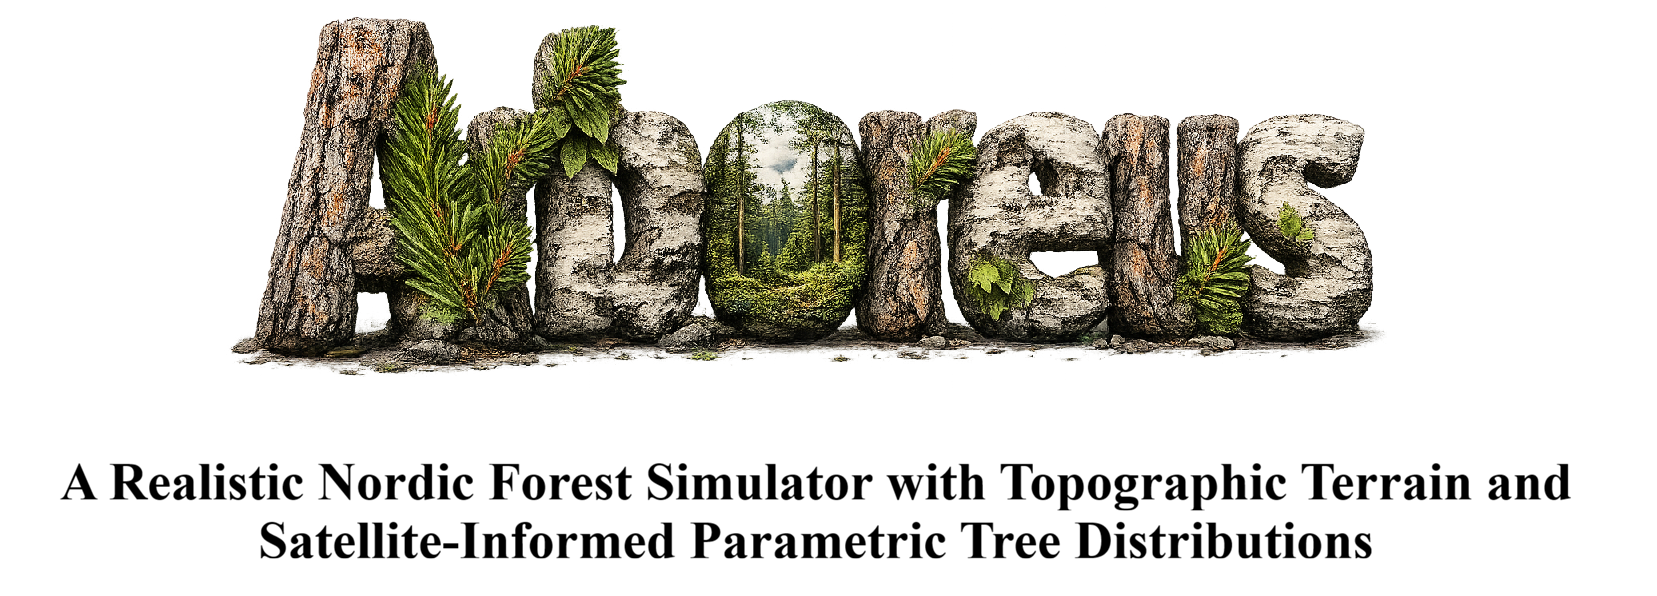
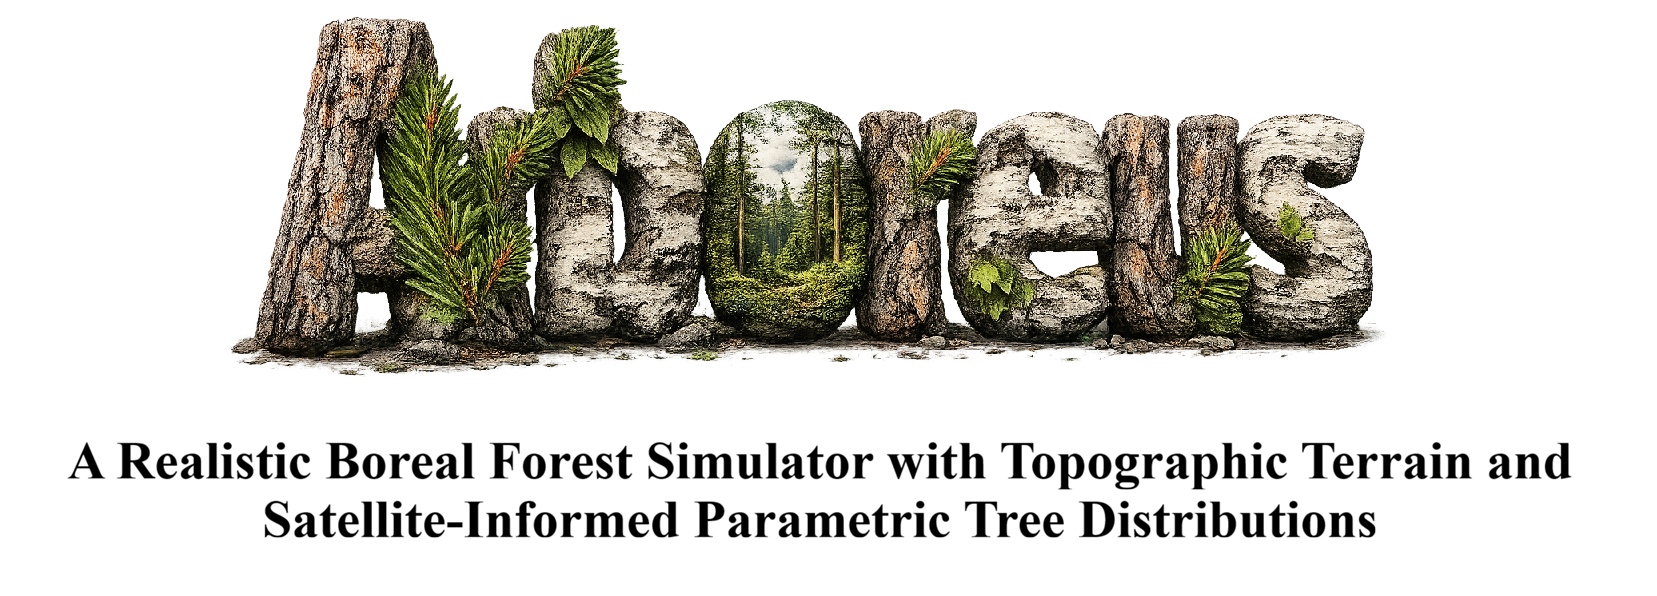
Update title

Changed region(s): [[0.0308, 0.7248, 0.9541, 0.9362]]

diff --git a/index.html b/index.html
@@ -3,7 +3,7 @@
 <head>
   <meta charset="utf-8">
   <meta name="viewport" content="width=device-width, initial-scale=1">
-  <meta name="description" content="Arboreus: a realistic Nordic forest simulator with topographic terrain and satellite-informed parametric tree distributions.">
+  <meta name="description" content="Arboreus: a realistic Boreal forest simulator with topographic terrain and satellite-informed parametric tree distributions.">
   <title>Arboreus</title>
   <style>
     :root {
@@ -105,15 +105,15 @@
     </div>
 
     <div class="teaser">
-      <img src="imgs/figure1.png" alt="Arboreus Nordic forest simulation overview" onerror="this.hidden=true; this.nextElementSibling.hidden=false">
+      <img src="imgs/figure1.png" alt="Arboreus Boreal forest simulation overview" onerror="this.hidden=true; this.nextElementSibling.hidden=false">
     </div>
-    <p class="authors">Fernando Labra Caso, Akshit Saradagi, George Nikolakopoulos</p>
+    <p class="authors">Fernando Labra Caso, Akshit Saradagi, Anton Koval, George Nikolakopoulos</p>
     <p class="affiliation">Robotics and AI, Luleå University of Technology</p>
     <nav class="links" aria-label="Project links">
       <a href="https://github.com/LTU-RAI/Arboreus">GitHub</a>
       <a href="https://doi.org/10.5281/zenodo.24254914">Software</a>
       <a href="https://doi.org/10.5281/zenodo.24246185">Dataset</a>
-      <a href="https://youtu.be/MxL3YVanRlg">Video</a>
+      <a href="https://youtu.be/KW1gCwXezII">Video</a>
       <a href="#citation">BibTeX</a>
     </nav>
   </header>
@@ -121,12 +121,12 @@
   <main class="page">
     <section id="abstract">
       <h2>Abstract</h2>
-      <p>This work presents Arboreus, a Nordic forest simulator for rigorous statistical validation of robotic autonomy algorithms in Nordic forest environments. Arboreus presents an automated methodology for rapid synthesis of large-scale forest environments from parametric trees, height-variant terrains and satellite-informed tree density distributions. The parametric generation of dominant Nordic tree species such as Birch, Spruce and Pine is guided by trunk, canopy and foliage parameters, extracted from growth studies in the Nordic areas. Tree distribution in an area of interest is based on the Copernicus satellite dataset, which provides tree cover and type densities up to 10 m raster resolution. The surface generation is guided by topographic data from the Swedish cadastral agency to produce realistic terrains. Given coordinates and extents of forested areas of interest, Arboreus rapidly synthesizes topography and satellite-informed likely replicas and their statistical variants, while offering user-controllability over the quality and dimensionality of trees (age-based). The user-controllability enables tuning the environments for data collection applications or customization before testing of feature-sensitive autonomy algorithms. Arboreus has been open-sourced to provide accessibility, along with a dataset comprising 25 forest worlds of size 1000 m² from a Nordic test area.</p>
+      <p>This work presents Arboreus, a realistic Boreal forest simulator, developed to support statistical validation of robotic autonomy algorithms in Boreal forest environments. Arboreus presents an automated methodology for synthesizing large-scale, data-informed, plausible forest worlds from parametric trees, height-variant terrain, and satellite-informed tree density distributions. The parametric generation of dominant Boreal tree species such as Birch, Spruce, and Pine is guided by trunk, canopy, and foliage parameters, extracted from growth studies in the Nordic areas. Tree distribution in an area of interest is guided by the Copernicus satellite dataset, which provides tree cover density and dominant species type at up to 10 meter raster resolution. The forest floor generation is guided by topographic data from the Swedish cadastral agency to produce realistic data-informed terrains. Given coordinates and extents of forested areas of interest, Arboreus synthesizes  data-informed plausible forests, while offering flexibility to inject user observations of real forests (detail, age, dimensionality and tree count), which is critical for realistic synthetic data generation and for the testing of feature-sensitive autonomy algorithms.</p>
     </section>
 
     <section id="overview">
       <h2>Overview</h2>
-      <p>Arboreus is a Nordic forest simulator for rigorous statistical validation of robotic autonomy algorithms. It automatically synthesizes large-scale forest environments from parametric trees, height-variant terrain, and satellite-informed tree-density distributions. Birch, Spruce, and Pine models can be combined with terrain data and tree-cover information. Forest generation is also available without satellite data.</p>
+      <p>Arboreus is a Boreal forest simulator for rigorous statistical validation of robotic autonomy algorithms. It automatically synthesizes large-scale forest environments from parametric trees, height-variant terrain, and satellite-informed tree-density distributions. Birch, Spruce, and Pine models can be combined with terrain data and tree-cover information. Forest generation is also available without satellite data.</p>
       <p><a href="https://doi.org/10.5281/zenodo.24254914">Download the software from Zenodo</a></p>
       <figure>
         <img src="imgs/figure3.png" alt="Arboreus forest generation visualization" onerror="this.hidden=true; this.nextElementSibling.hidden=false">

diff --git a/README.md b/README.md
@@ -7,7 +7,7 @@
 
 [![DOI](https://zenodo.org/badge/DOI/10.5281/zenodo.24254915.svg)](https://doi.org/10.5281/zenodo.24254915)
 
-This is the code repository of Arboreus, a Nordic forest simulator for rigorous statistical validation of robotic autonomy algorithms in Nordic forest environments. Arboreus presents an automated methodology for rapid synthesis of large-scale forest environments from parametric trees, height-variant terrains and satellite-informed tree density distributions.
+This is the code repository of Arboreus, a Boreal forest simulator for rigorous statistical validation of robotic autonomy algorithms in Boreal forest environments. Arboreus presents an automated methodology for rapid synthesis of large-scale forest environments from parametric trees, height-variant terrains and satellite-informed tree density distributions.
 
 ## Benchmark Dataset
 
@@ -26,12 +26,12 @@ If you use Arboreus in your work consider including the citation of this publica
 ## Presentation Video
 
 <p align="center">
-  <a href="https://youtu.be/MxL3YVanRlg"><img width="844" height="470" alt="image" src="https://github.com/user-attachments/assets/c315c8f8-3446-4091-872f-20b69d9c1cdb" /></a>
+  <a href="https://youtu.be/KW1gCwXezII"><img width="844" height="470" alt="image" src="https://github.com/user-attachments/assets/c315c8f8-3446-4091-872f-20b69d9c1cdb" /></a>
 </p>
 
 ## Forest Generation
 
-The parametric generation of dominant Nordic tree species such as Birch, Spruce and Pine is guided by trunk, canopy and foliage parameters, extracted from growth studies in the Nordic areas. Tree distribution in an area of interest is based on the Copernicus satellite dataset, which provides tree cover and type densities up to 10m raster resolution. 
+The parametric generation of dominant Boreal tree species such as Birch, Spruce and Pine is guided by trunk, canopy and foliage parameters, extracted from growth studies in the Nordic areas. Tree distribution in an area of interest is based on the Copernicus satellite dataset, which provides tree cover and type densities up to 10m raster resolution. 
 
 The surface generation is guided by topographic data from the Swedish cadastral agency to produce realistic terrains. Given coordinates and extents of forested areas of interest, Arboreus rapidly synthesizes topography and satellite-informed likely replicas and their statistical variants, while offering user-controllability over the quality and dimensionality of trees (age-based).
 
